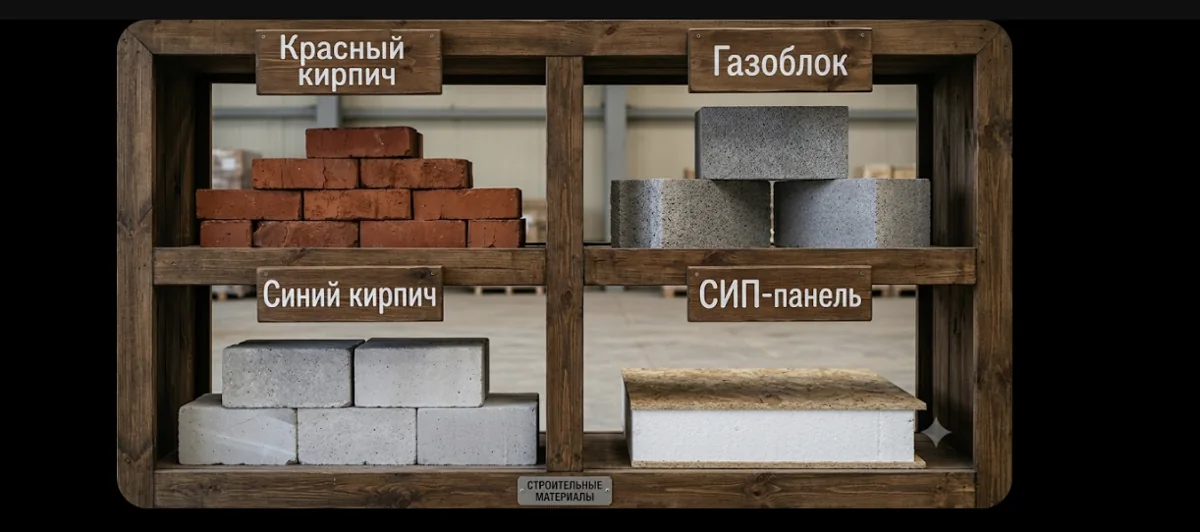
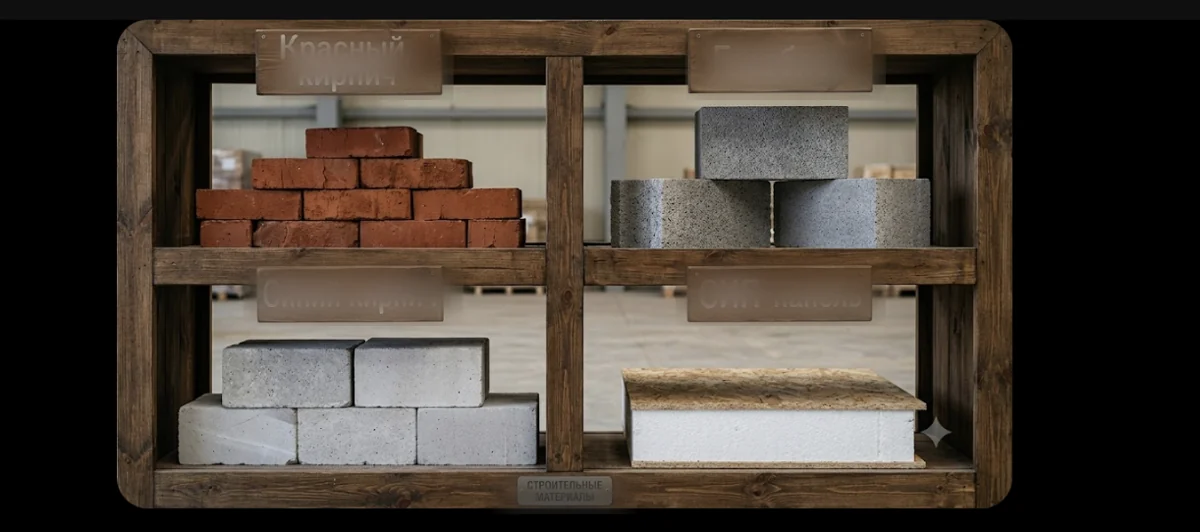
Add files via upload

diff --git a/app.js b/app.js
@@ -217,7 +217,7 @@ const translations = {
         sipStat3: "лет срок службы", sipStat4: "класс энергоэффективности",
         materialsTitle: "Материалы и технологии", materialsDesc: "Для SIP и массивного строительства — только проверенные европейской практикой материалы.",
         mat1Title: "Материалы на выбор", mat1Desc: "SIP-панели, кирпич или газобетон — строим из материала, который подходит вашему проекту.",
-        mat2Title: "Вентиляция и климат", mat2Desc: "Рекуперация тепла и современные системы климат-контроля.",
+        mat2Title: "Отопление", mat2Desc: "Современные системы отопления с рекуперацией тепла для эффективного и комфортного дома.",
         mat3Title: "Фасад и кровля", mat3Desc: "Долговечные фасадные системы и кровля европейских производителей.",
         stagesPreviewTitle: "Как мы строим", stagesPreviewDesc: "От первого звонка до передачи ключей — понятный процесс",
         stagesPrev1: "Участок и фундамент", stagesPrev2: "Проект и панели",
@@ -514,7 +514,7 @@ const translations = {
         sipStat3: "years service life", sipStat4: "energy efficiency class",
         materialsTitle: "Materials and technologies", materialsDesc: "For SIP and solid construction — only materials proven by European practice.",
         mat1Title: "Materials of your choice", mat1Desc: "SIP panels, brick or aerated concrete — we build with the material that suits your project.",
-        mat2Title: "Ventilation and climate", mat2Desc: "Heat recovery and modern climate control systems.",
+        mat2Title: "Heating", mat2Desc: "Modern heating systems with heat recovery for an efficient, comfortable home.",
         mat3Title: "Facade and roofing", mat3Desc: "Durable facade systems from European manufacturers.",
         stagesPreviewTitle: "How we build", stagesPreviewDesc: "From first call to key handover — clear process",
         stagesPrev1: "Plot and foundation", stagesPrev2: "Design and panels",
@@ -787,7 +787,7 @@ const translations = {
         sipStat3: "ani durată", sipStat4: "clasă eficiență energetică",
         materialsTitle: "Materiale și tehnologii", materialsDesc: "Pentru construcții SIP și masive — doar materiale dovedite european.",
         mat1Title: "Materiale la alegere", mat1Desc: "Panouri SIP, cărămidă sau beton celular — construim cu materialul potrivit proiectului dumneavoastră.",
-        mat2Title: "Ventilație și climă", mat2Desc: "Recuperare de căldură și sisteme moderne.",
+        mat2Title: "Încălzire", mat2Desc: "Sisteme moderne de încălzire cu recuperare de căldură pentru o casă eficientă și confortabilă.",
         mat3Title: "Fațadă și acoperiș", mat3Desc: "Sisteme durabile de la producători europeni.",
         stagesPreviewTitle: "Cum construim", stagesPreviewDesc: "De la primul apel până la chei",
         stagesPrev1: "Teren și fundație", stagesPrev2: "Proiect și panouri",
@@ -1084,7 +1084,7 @@ const translations = {
         sipStat3: "Jahre Lebensdauer", sipStat4: "Energieeffizienzklasse",
         materialsTitle: "Materialien und Technologien", materialsDesc: "Für SIP- und Massivbau — nur europäisch bewährte Materialien.",
         mat1Title: "Baustoffe nach Wahl", mat1Desc: "Ob SIP-Paneele, Ziegel oder Gasbeton — wir bauen mit dem Material, das zu Ihrem Projekt passt.",
-        mat2Title: "Lüftung und Klima", mat2Desc: "Wärmerückgewinnung und moderne Klimasteuerungssysteme.",
+        mat2Title: "Heizung", mat2Desc: "Moderne Heizsysteme mit Wärmerückgewinnung für ein effizientes, komfortables Zuhause.",
         mat3Title: "Fassade und Dach", mat3Desc: "Langlebige Fassadensysteme von europäischen Herstellern.",
         stagesPreviewTitle: "Wie wir bauen", stagesPreviewDesc: "Vom ersten Anruf bis zur Schlüsselübergabe",
         stagesPrev1: "Grundstück und Fundament", stagesPrev2: "Planung und Paneele",

diff --git a/index.html b/index.html
@@ -424,13 +424,13 @@
                         </div>
                         <div class="p-6 bg-white">
                             <div class="flex items-center gap-3 mb-3">
-                                <div class="w-9 h-9 rounded-full bg-blue-100 flex items-center justify-center flex-shrink-0">
-                                    <i class="fa-solid fa-wind text-blue-700 text-sm" aria-hidden="true"></i>
+                                <div class="w-9 h-9 rounded-full bg-orange-100 flex items-center justify-center flex-shrink-0">
+                                    <i class="fa-solid fa-fire text-orange-600 text-sm" aria-hidden="true"></i>
                                 </div>
-                                <h3 class="font-bold text-[#3e2723]" data-key="mat2Title">Ventilation und Klimaanlage</h3>
+                                <h3 class="font-bold text-[#3e2723]" data-key="mat2Title">Heizung</h3>
                             </div>
                             <p class="text-gray-500 text-sm" data-key="mat2Desc">
-                                Wärmewiedergewinnung, Positiv- und Negativlüftung sowie moderne Klimaanlagen für einen komfortablen Mikroklima das ganze Jahr.
+                                Moderne Heizsysteme mit Wärmerückgewinnung für ein effizientes, komfortables Zuhause.
                             </p>
                         </div>
                     </div>
